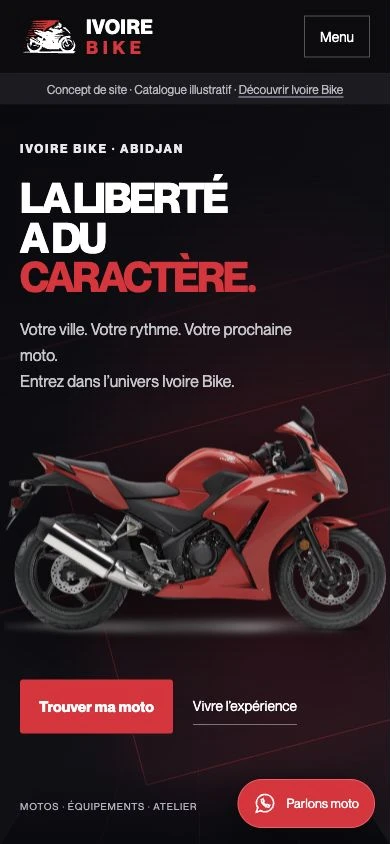
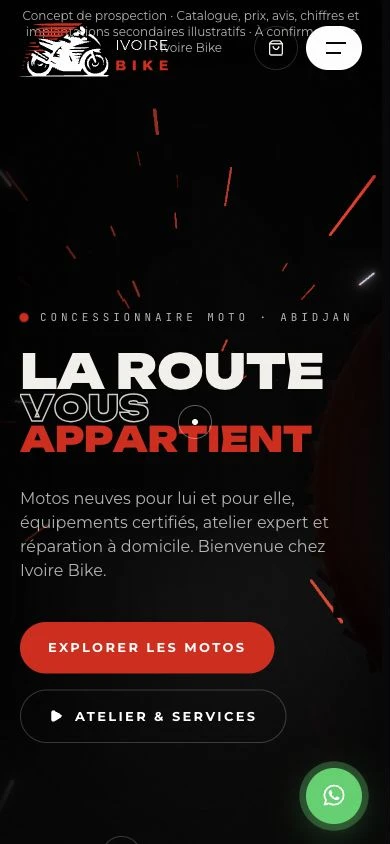
Refresh Ivoire Bike portfolio entry for hard redesign

diff --git a/src/data/content.ts b/src/data/content.ts
@@ -245,23 +245,16 @@ export const projects: Project[] = [
     title: "Ivoire Bike",
     category: "Concept de prospection · showroom moto immersif",
     description:
-      "Proposition de site de visibilité pour une entreprise ivoirienne de vente de motos : identité rouge et noire, logo restauré, vraie moto détourée dans un décor 3D, caméra au défilement et loader cascade avec gouttes et reflets. 55 pages, catalogue illustratif de 16 motos et 13 équipements, recherche, filtres, comparaison et sélection locale. Parcours atelier et domicile, guides, carte du point GPS transmis et contact WhatsApp. Les modèles, stocks, prix et services restent à confirmer par l’entreprise. Kit motion original, version mobile et déploiement GitHub Pages en HTTPS.",
-    tags: [
-      "Next.js",
-      "React",
-      "TypeScript",
-      "Three.js",
-      "Leaflet",
-      "Motion design",
-    ],
+      "Concept de site de visibilité pour une entreprise ivoirienne de vente de motos. Refonte immersive fournie et intégrée sur la branche hard : roue de moto et emblème en 3D, vidéos, défilement fluide, transitions et catalogue filtrable. 21 motos et 8 équipements illustratifs, fiches détaillées, sélection pour devis WhatsApp, services atelier et carte des points de vente. Prix, avis, chiffres et implantations secondaires sont des exemples à valider. Version responsive déployée sur GitHub Pages en HTTPS.",
+    tags: ["Next.js", "React", "Three.js", "GSAP", "Framer Motion", "Leaflet"],
     link: "https://ivoirebike.myoctogone.com/",
     linkLabel: "Explorer Ivoire Bike",
     image: "/images/ivoirebike-web.webp",
     mobileImage: "/images/ivoirebike-mobile.webp",
     stats: [
       { value: "29", label: "Produits illustratifs" },
-      { value: "55", label: "Pages de contenu" },
-      { value: "3D", label: "Décor immersif" },
+      { value: "3D", label: "Roue & emblème" },
+      { value: "hard", label: "Branche déployée" },
     ],
     featured: true,
   },
